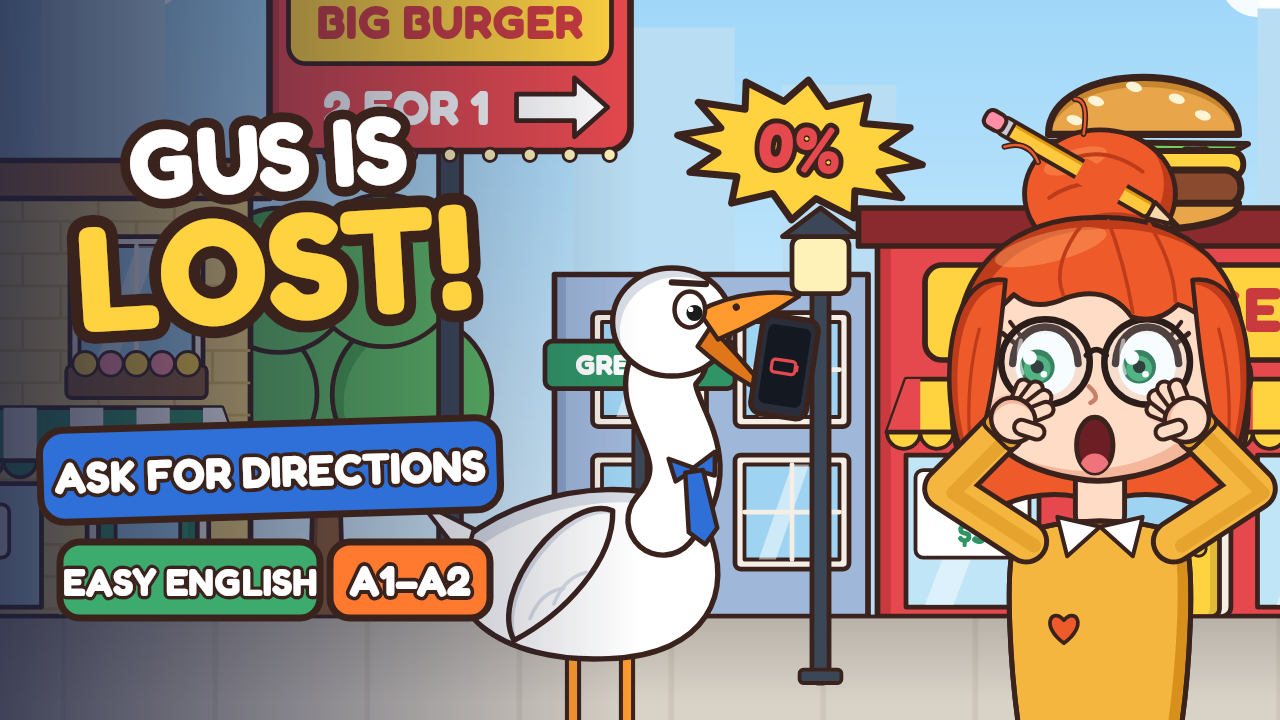
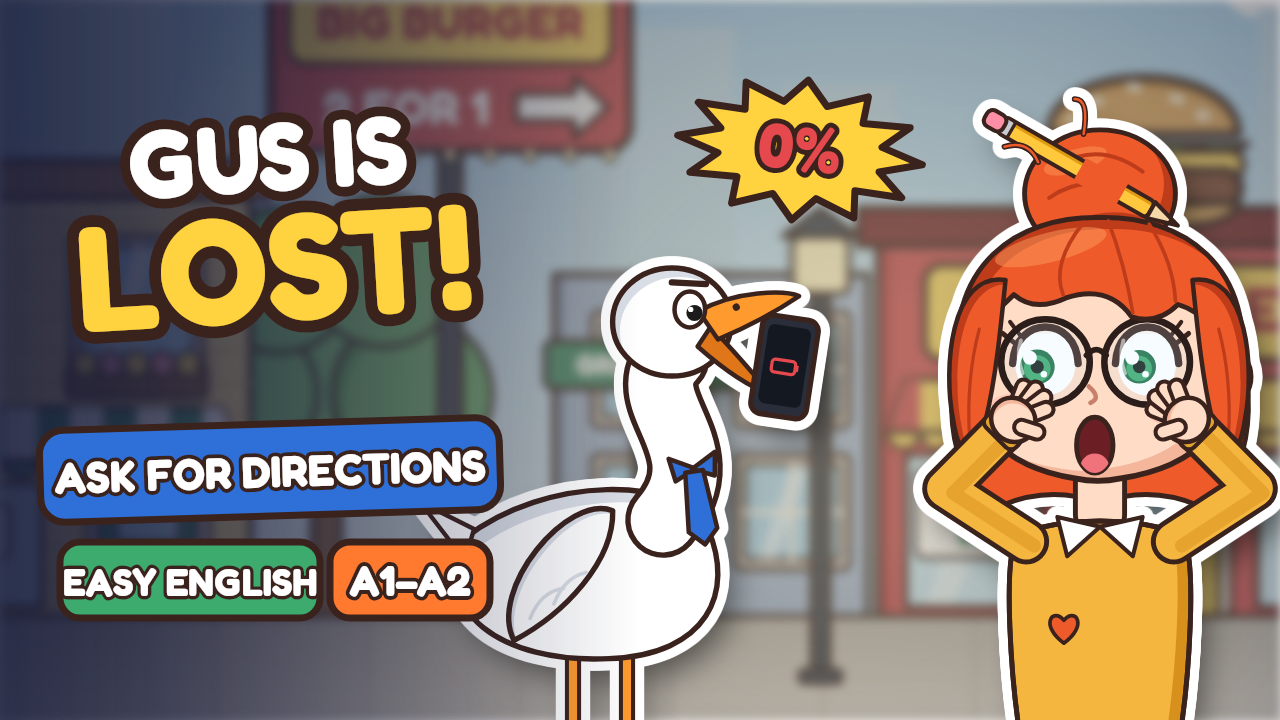
Ep4 thumbnail: blurred background, sticker outline so characters stand out
Claude-Session: https://claude.ai/code/session_01LKPj7VqFRniFGTtNUbFUdj

diff --git a/ep4/thumb.js b/ep4/thumb.js
@@ -9,16 +9,23 @@ const { paint, roundRect } = require('../lib/draw');
 const G = require('./bg_green');
 
 const W = 1280, H = 720, c = createCanvas(W, H), x = c.getContext('2d');
-// Green Street around the BIG BURGER sign
-x.save(); x.translate(W / 2, H / 2); x.scale(0.95, 0.95); x.translate(-2050, -560);
-G.drawGreen(x);
-x.restore();
-// Sofia, shocked, big (right)
-drawSofia(x, 1100, 735, 0.82, { turn: -0.15, look: [-0.6, 0], wide: 1, brow: { l: 0.9, r: 0.9, worry: 0.6 }, mouth: { open: 0.8, smile: -0.3, o: 0.7 },
+// Green Street around the BIG BURGER sign — blurred and toned down so the characters pop
+const bgc = createCanvas(W, H), bx = bgc.getContext('2d');
+bx.save(); bx.translate(W / 2, H / 2); bx.scale(0.95, 0.95); bx.translate(-2050, -560); G.drawGreen(bx); bx.restore();
+x.filter = 'blur(5px) saturate(0.75) brightness(0.8)'; x.drawImage(bgc, 0, 0); x.filter = 'none';
+const rg = x.createRadialGradient(860, 420, 120, 860, 420, 760); rg.addColorStop(0, 'rgba(255,240,200,0.25)'); rg.addColorStop(1, 'rgba(20,20,50,0.35)'); x.fillStyle = rg; x.fillRect(0, 0, W, H);
+// characters on their own layer, then a thick white sticker outline + soft shadow behind them
+const ch = createCanvas(W, H), cx2 = ch.getContext('2d');
+drawSofia(cx2, 1100, 735, 0.82, { turn: -0.15, look: [-0.6, 0], wide: 1, brow: { l: 0.9, r: 0.9, worry: 0.6 }, mouth: { open: 0.8, smile: -0.3, o: 0.7 },
   armL: [-110, -380], armR: [110, -380], handL: 'open', handR: 'open', armsFront: true });
-// Gus panicking with the dead phone (centre)
-drawGus(x, 600, 745, 0.9, { face: 1, honk: 2.2, lids: 0, neck: -0.25, wing: 0.9, look: 0.3,
-  hold: (cx, f, h) => { cx.translate(h.hx + 125, h.hy + 50); cx.rotate(0.15); phoneProp(cx, 1.2, 'empty'); } });
+drawGus(cx2, 600, 745, 0.9, { face: 1, honk: 2.2, lids: 0, neck: -0.25, wing: 0.9, look: 0.3,
+  hold: (c3, f, h) => { c3.translate(h.hx + 125, h.hy + 50); c3.rotate(0.15); phoneProp(c3, 1.2, 'empty'); } });
+const sil = createCanvas(W, H), sx = sil.getContext('2d');
+sx.drawImage(ch, 0, 0); sx.globalCompositeOperation = 'source-in'; sx.fillStyle = '#FFFFFF'; sx.fillRect(0, 0, W, H);
+const sh = createCanvas(W, H), shx = sh.getContext('2d'); shx.drawImage(sil, 0, 0); shx.globalCompositeOperation = 'source-in'; shx.fillStyle = '#000000'; shx.fillRect(0, 0, W, H);
+x.save(); x.filter = 'blur(16px)'; x.globalAlpha = 0.5; x.drawImage(sh, 12, 18); x.restore();
+for (let i = 0; i < 24; i++) { const a = i / 24 * Math.PI * 2; x.drawImage(sil, Math.cos(a) * 9, Math.sin(a) * 9); }
+x.drawImage(ch, 0, 0);
 // darken left for the title
 const lg = x.createLinearGradient(0, 0, 640, 0); lg.addColorStop(0, 'rgba(25,30,60,0.8)'); lg.addColorStop(1, 'rgba(25,30,60,0)'); x.fillStyle = lg; x.fillRect(0, 0, W, H);
 // title
